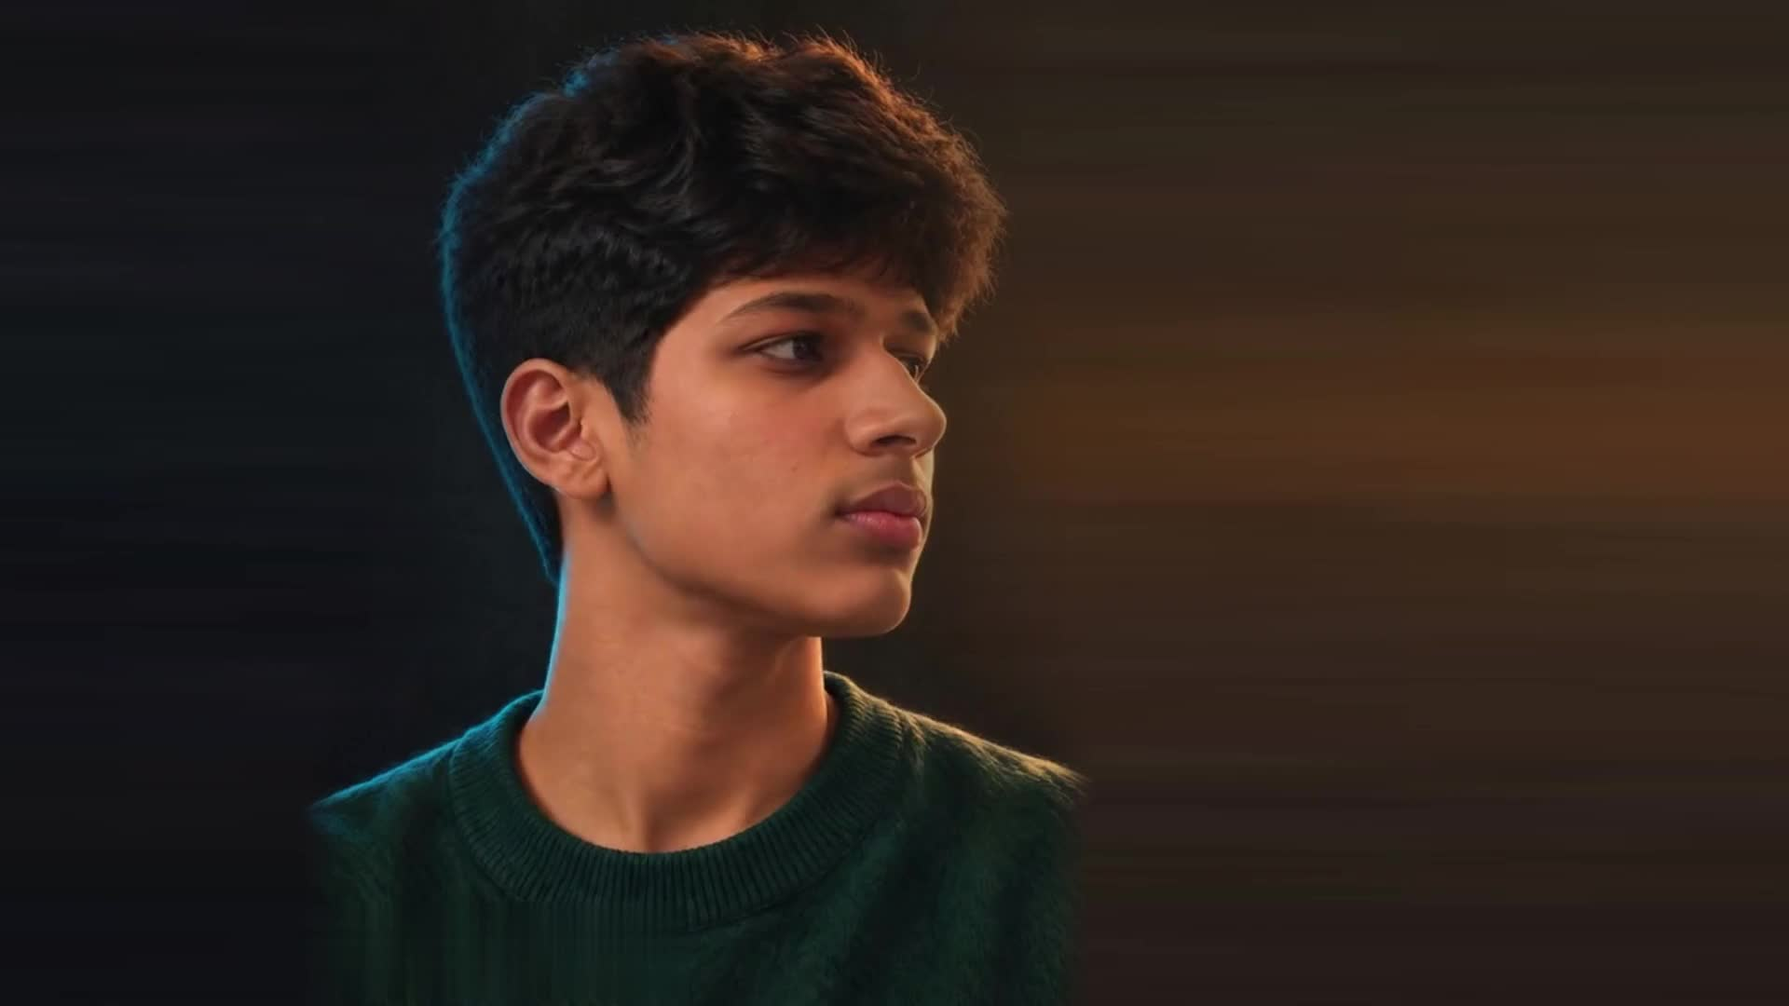
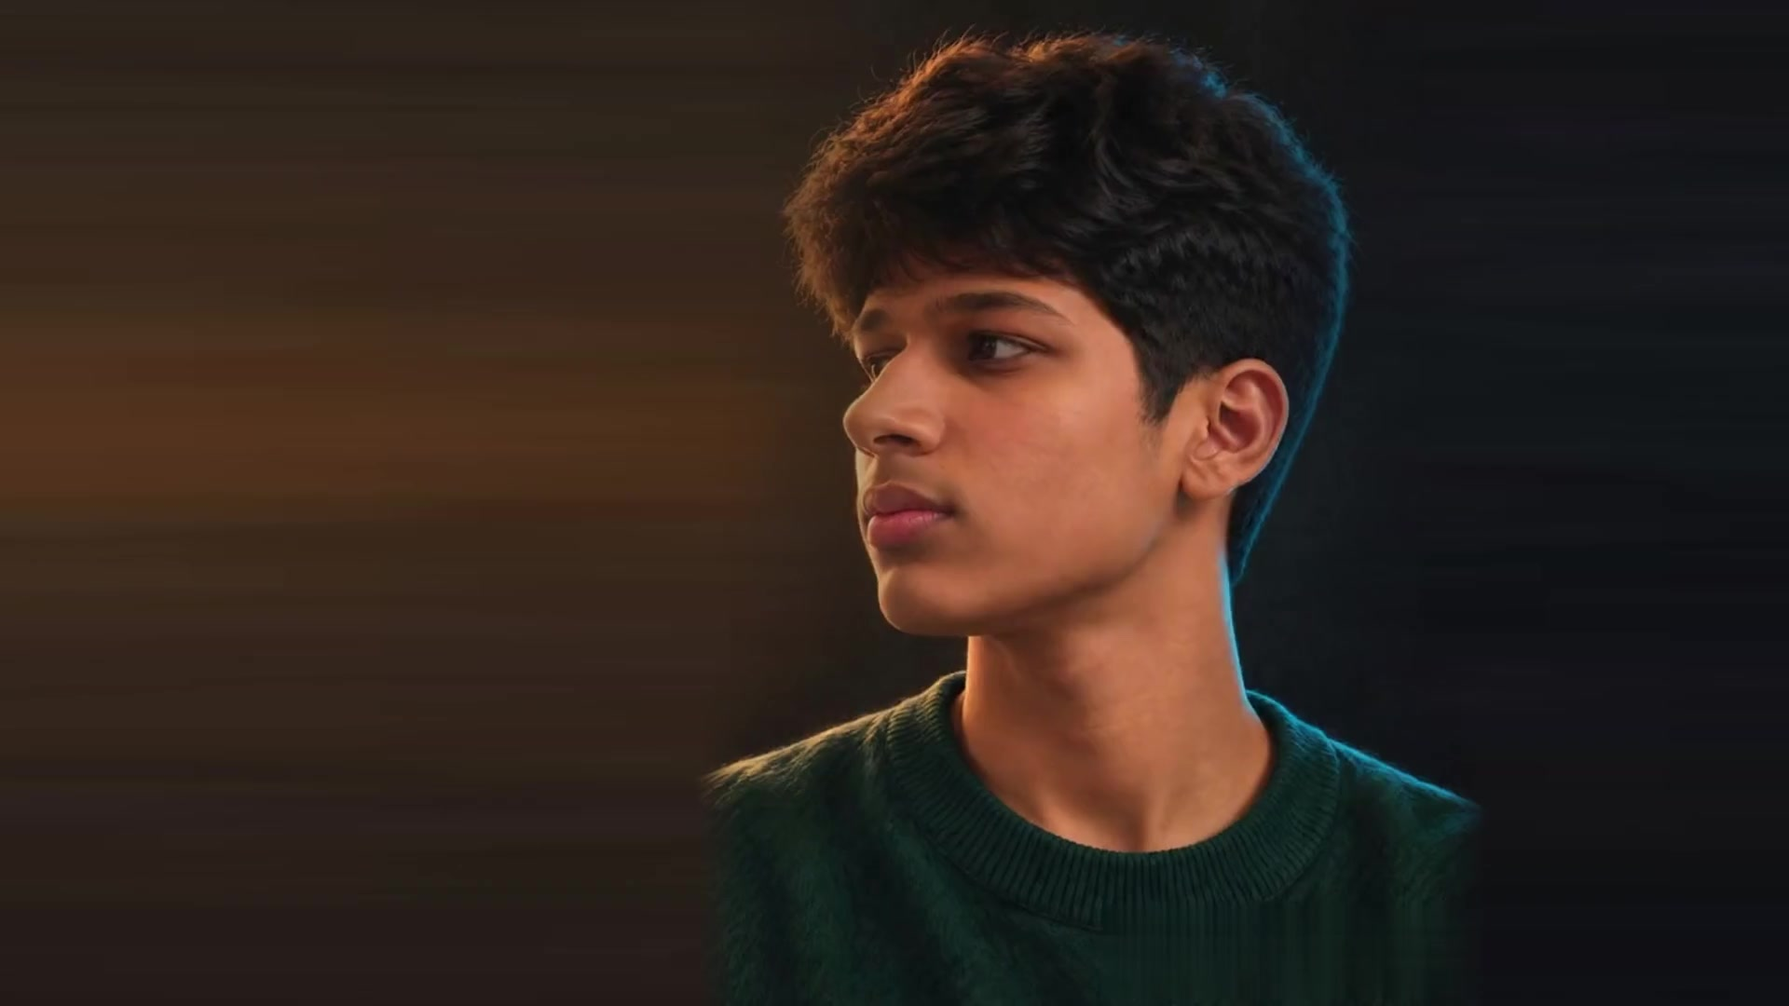
V22.2: unmirrored sharp hero (v21 footage, left-to-center sub-range only), navbar restored (toggle between Contact link and CTA, button back at far right), EQ bars animate down to flat when music stops

diff --git a/index.html b/index.html
@@ -18,7 +18,7 @@
   <link rel="preconnect" href="https://fonts.googleapis.com">
   <link rel="preconnect" href="https://fonts.gstatic.com" crossorigin>
   <link href="https://fonts.googleapis.com/css2?family=Archivo+Black&family=IBM+Plex+Mono:wght@400;500&family=Inter:wght@400;500&display=swap" rel="stylesheet">
-  <link rel="stylesheet" href="style.css?v=22.1">
+  <link rel="stylesheet" href="style.css?v=22.2">
 
   <!-- Tailwind Play CDN, pinned 3.4.16 (Prompt 27): compiles the utility
        classes in the browser at runtime, so this page needs internet for
@@ -111,12 +111,13 @@
         <li><a href="#contact" class="navbar__link font-mono text-[0.6875rem] font-medium tracking-[0.1em] uppercase text-muted py-[0.3em] px-[0.5em] transition-colors duration-150 ease-[cubic-bezier(0.16,1,0.3,1)] hover:text-ink focus-visible:text-ink focus-visible:outline-none">Contact</a></li>
       </ul>
       <div class="navbar__actions flex items-center gap-2">
-
-        <a href="index.html#contact" class="btn btn--outline navbar__cta hidden md:inline-flex">Contact</a>
         <button type="button" id="theme-toggle" class="theme-toggle" aria-label="Switch to light mode" aria-pressed="true">
           <svg class="theme-toggle__icon theme-toggle__sun" viewBox="0 0 24 24" fill="none" stroke="currentColor" stroke-width="1.5" stroke-linecap="round" aria-hidden="true"><circle cx="12" cy="12" r="4"/><path d="M12 2v2M12 20v2M4.93 4.93l1.41 1.41M17.66 17.66l1.41 1.41M2 12h2M20 12h2M4.93 19.07l1.41-1.41M17.66 6.34l1.41-1.41"/></svg>
           <svg class="theme-toggle__icon theme-toggle__moon" viewBox="0 0 24 24" fill="none" stroke="currentColor" stroke-width="1.5" stroke-linecap="round" stroke-linejoin="round" aria-hidden="true"><path d="M21 12.79A9 9 0 1 1 11.21 3 7 7 0 0 0 21 12.79z"/></svg>
         </button>
+
+
+        <a href="index.html#contact" class="btn btn--outline navbar__cta hidden md:inline-flex">Contact</a>
       </div>
     </nav>
   </header>
@@ -143,94 +144,94 @@
              --frame-count; the CSS slices the scroll range from those two. -->
         <div class="hero-bg">
           <picture class="portrait-frame portrait-frame--first" style="--i: 1">
-            <img src="assets/frames/frame01.jpg?v=22.1" alt="" aria-hidden="true" width="1920" height="1080" fetchpriority="high">
+            <img src="assets/frames/frame01.jpg?v=22.2" alt="" aria-hidden="true" width="1920" height="1080" fetchpriority="high">
           </picture>
           <picture class="portrait-frame" style="--i: 2">
-            <img src="assets/frames/frame02.jpg?v=22.1" alt="" aria-hidden="true" width="1920" height="1080" decoding="async">
+            <img src="assets/frames/frame02.jpg?v=22.2" alt="" aria-hidden="true" width="1920" height="1080" decoding="async">
           </picture>
           <picture class="portrait-frame" style="--i: 3">
-            <img src="assets/frames/frame03.jpg?v=22.1" alt="" aria-hidden="true" width="1920" height="1080" decoding="async">
+            <img src="assets/frames/frame03.jpg?v=22.2" alt="" aria-hidden="true" width="1920" height="1080" decoding="async">
           </picture>
           <picture class="portrait-frame" style="--i: 4">
-            <img src="assets/frames/frame04.jpg?v=22.1" alt="" aria-hidden="true" width="1920" height="1080" decoding="async">
+            <img src="assets/frames/frame04.jpg?v=22.2" alt="" aria-hidden="true" width="1920" height="1080" decoding="async">
           </picture>
           <picture class="portrait-frame" style="--i: 5">
-            <img src="assets/frames/frame05.jpg?v=22.1" alt="" aria-hidden="true" width="1920" height="1080" decoding="async">
+            <img src="assets/frames/frame05.jpg?v=22.2" alt="" aria-hidden="true" width="1920" height="1080" decoding="async">
           </picture>
           <picture class="portrait-frame" style="--i: 6">
-            <img src="assets/frames/frame06.jpg?v=22.1" alt="" aria-hidden="true" width="1920" height="1080" decoding="async">
+            <img src="assets/frames/frame06.jpg?v=22.2" alt="" aria-hidden="true" width="1920" height="1080" decoding="async">
           </picture>
           <picture class="portrait-frame" style="--i: 7">
-            <img src="assets/frames/frame07.jpg?v=22.1" alt="" aria-hidden="true" width="1920" height="1080" decoding="async">
+            <img src="assets/frames/frame07.jpg?v=22.2" alt="" aria-hidden="true" width="1920" height="1080" decoding="async">
           </picture>
           <picture class="portrait-frame" style="--i: 8">
-            <img src="assets/frames/frame08.jpg?v=22.1" alt="" aria-hidden="true" width="1920" height="1080" decoding="async">
+            <img src="assets/frames/frame08.jpg?v=22.2" alt="" aria-hidden="true" width="1920" height="1080" decoding="async">
           </picture>
           <picture class="portrait-frame" style="--i: 9">
-            <img src="assets/frames/frame09.jpg?v=22.1" alt="" aria-hidden="true" width="1920" height="1080" decoding="async">
+            <img src="assets/frames/frame09.jpg?v=22.2" alt="" aria-hidden="true" width="1920" height="1080" decoding="async">
           </picture>
           <picture class="portrait-frame" style="--i: 10">
-            <img src="assets/frames/frame10.jpg?v=22.1" alt="" aria-hidden="true" width="1920" height="1080" decoding="async">
+            <img src="assets/frames/frame10.jpg?v=22.2" alt="" aria-hidden="true" width="1920" height="1080" decoding="async">
           </picture>
           <picture class="portrait-frame" style="--i: 11">
-            <img src="assets/frames/frame11.jpg?v=22.1" alt="" aria-hidden="true" width="1920" height="1080" decoding="async">
+            <img src="assets/frames/frame11.jpg?v=22.2" alt="" aria-hidden="true" width="1920" height="1080" decoding="async">
           </picture>
           <picture class="portrait-frame" style="--i: 12">
-            <img src="assets/frames/frame12.jpg?v=22.1" alt="" aria-hidden="true" width="1920" height="1080" decoding="async">
+            <img src="assets/frames/frame12.jpg?v=22.2" alt="" aria-hidden="true" width="1920" height="1080" decoding="async">
           </picture>
           <picture class="portrait-frame" style="--i: 13">
-            <img src="assets/frames/frame13.jpg?v=22.1" alt="" aria-hidden="true" width="1920" height="1080" decoding="async">
+            <img src="assets/frames/frame13.jpg?v=22.2" alt="" aria-hidden="true" width="1920" height="1080" decoding="async">
           </picture>
           <picture class="portrait-frame" style="--i: 14">
-            <img src="assets/frames/frame14.jpg?v=22.1" alt="" aria-hidden="true" width="1920" height="1080" decoding="async">
+            <img src="assets/frames/frame14.jpg?v=22.2" alt="" aria-hidden="true" width="1920" height="1080" decoding="async">
           </picture>
           <picture class="portrait-frame" style="--i: 15">
-            <img src="assets/frames/frame15.jpg?v=22.1" alt="" aria-hidden="true" width="1920" height="1080" decoding="async">
+            <img src="assets/frames/frame15.jpg?v=22.2" alt="" aria-hidden="true" width="1920" height="1080" decoding="async">
           </picture>
           <picture class="portrait-frame" style="--i: 16">
-            <img src="assets/frames/frame16.jpg?v=22.1" alt="" aria-hidden="true" width="1920" height="1080" decoding="async">
+            <img src="assets/frames/frame16.jpg?v=22.2" alt="" aria-hidden="true" width="1920" height="1080" decoding="async">
           </picture>
           <picture class="portrait-frame" style="--i: 17">
-            <img src="assets/frames/frame17.jpg?v=22.1" alt="" aria-hidden="true" width="1920" height="1080" decoding="async">
+            <img src="assets/frames/frame17.jpg?v=22.2" alt="" aria-hidden="true" width="1920" height="1080" decoding="async">
           </picture>
           <picture class="portrait-frame" style="--i: 18">
-            <img src="assets/frames/frame18.jpg?v=22.1" alt="" aria-hidden="true" width="1920" height="1080" decoding="async">
+            <img src="assets/frames/frame18.jpg?v=22.2" alt="" aria-hidden="true" width="1920" height="1080" decoding="async">
           </picture>
           <picture class="portrait-frame" style="--i: 19">
-            <img src="assets/frames/frame19.jpg?v=22.1" alt="" aria-hidden="true" width="1920" height="1080" decoding="async">
+            <img src="assets/frames/frame19.jpg?v=22.2" alt="" aria-hidden="true" width="1920" height="1080" decoding="async">
           </picture>
           <picture class="portrait-frame" style="--i: 20">
-            <img src="assets/frames/frame20.jpg?v=22.1" alt="" aria-hidden="true" width="1920" height="1080" decoding="async">
+            <img src="assets/frames/frame20.jpg?v=22.2" alt="" aria-hidden="true" width="1920" height="1080" decoding="async">
           </picture>
           <picture class="portrait-frame" style="--i: 21">
-            <img src="assets/frames/frame21.jpg?v=22.1" alt="" aria-hidden="true" width="1920" height="1080" decoding="async">
+            <img src="assets/frames/frame21.jpg?v=22.2" alt="" aria-hidden="true" width="1920" height="1080" decoding="async">
           </picture>
           <picture class="portrait-frame" style="--i: 22">
-            <img src="assets/frames/frame22.jpg?v=22.1" alt="" aria-hidden="true" width="1920" height="1080" decoding="async">
+            <img src="assets/frames/frame22.jpg?v=22.2" alt="" aria-hidden="true" width="1920" height="1080" decoding="async">
           </picture>
           <picture class="portrait-frame" style="--i: 23">
-            <img src="assets/frames/frame23.jpg?v=22.1" alt="" aria-hidden="true" width="1920" height="1080" decoding="async">
+            <img src="assets/frames/frame23.jpg?v=22.2" alt="" aria-hidden="true" width="1920" height="1080" decoding="async">
           </picture>
           <picture class="portrait-frame" style="--i: 24">
-            <img src="assets/frames/frame24.jpg?v=22.1" alt="" aria-hidden="true" width="1920" height="1080" decoding="async">
+            <img src="assets/frames/frame24.jpg?v=22.2" alt="" aria-hidden="true" width="1920" height="1080" decoding="async">
           </picture>
           <picture class="portrait-frame" style="--i: 25">
-            <img src="assets/frames/frame25.jpg?v=22.1" alt="" aria-hidden="true" width="1920" height="1080" decoding="async">
+            <img src="assets/frames/frame25.jpg?v=22.2" alt="" aria-hidden="true" width="1920" height="1080" decoding="async">
           </picture>
           <picture class="portrait-frame" style="--i: 26">
-            <img src="assets/frames/frame26.jpg?v=22.1" alt="" aria-hidden="true" width="1920" height="1080" decoding="async">
+            <img src="assets/frames/frame26.jpg?v=22.2" alt="" aria-hidden="true" width="1920" height="1080" decoding="async">
           </picture>
           <picture class="portrait-frame" style="--i: 27">
-            <img src="assets/frames/frame27.jpg?v=22.1" alt="" aria-hidden="true" width="1920" height="1080" decoding="async">
+            <img src="assets/frames/frame27.jpg?v=22.2" alt="" aria-hidden="true" width="1920" height="1080" decoding="async">
           </picture>
           <picture class="portrait-frame" style="--i: 28">
-            <img src="assets/frames/frame28.jpg?v=22.1" alt="" aria-hidden="true" width="1920" height="1080" decoding="async">
+            <img src="assets/frames/frame28.jpg?v=22.2" alt="" aria-hidden="true" width="1920" height="1080" decoding="async">
           </picture>
           <picture class="portrait-frame" style="--i: 29">
-            <img src="assets/frames/frame29.jpg?v=22.1" alt="" aria-hidden="true" width="1920" height="1080" decoding="async">
+            <img src="assets/frames/frame29.jpg?v=22.2" alt="" aria-hidden="true" width="1920" height="1080" decoding="async">
           </picture>
           <picture class="portrait-frame portrait-frame--default" style="--i: 30">
-            <img src="assets/frames/frame30.jpg?v=22.1" alt="AI-generated portrait of Aditya Kulkarni" width="1920" height="1080" decoding="async">
+            <img src="assets/frames/frame30.jpg?v=22.2" alt="AI-generated portrait of Aditya Kulkarni" width="1920" height="1080" decoding="async">
           </picture>
         </div>
         <!-- FLAT readability overlay above the frames, below the text.
@@ -492,6 +493,6 @@
   <script defer src="https://cdn.jsdelivr.net/npm/lenis@1.1.14/dist/lenis.min.js"></script>
   <script defer src="https://cdn.jsdelivr.net/npm/gsap@3.12.5/dist/gsap.min.js"></script>
   <script defer src="https://cdn.jsdelivr.net/npm/gsap@3.12.5/dist/ScrollTrigger.min.js"></script>
-  <script src="script.js?v=22.1"></script>
+  <script src="script.js?v=22.2"></script>
 </body>
 </html>

diff --git a/projects.html b/projects.html
@@ -18,7 +18,7 @@
   <link rel="preconnect" href="https://fonts.googleapis.com">
   <link rel="preconnect" href="https://fonts.gstatic.com" crossorigin>
   <link href="https://fonts.googleapis.com/css2?family=Archivo+Black&family=IBM+Plex+Mono:wght@400;500&family=Inter:wght@400;500&display=swap" rel="stylesheet">
-  <link rel="stylesheet" href="style.css?v=22.1">
+  <link rel="stylesheet" href="style.css?v=22.2">
 
   <!-- Tailwind Play CDN, pinned 3.4.16 (Prompt 27): compiles the utility
        classes in the browser at runtime, so this page needs internet for
@@ -110,12 +110,13 @@
         <li><a href="#cp-pipeline" class="navbar__link font-mono text-[0.6875rem] font-medium tracking-[0.1em] uppercase text-muted py-[0.3em] px-[0.5em] transition-colors duration-150 ease-[cubic-bezier(0.16,1,0.3,1)] hover:text-ink focus-visible:text-ink focus-visible:outline-none">05 CP Pipeline</a></li>
       </ul>
       <div class="navbar__actions flex items-center gap-2">
-
-        <a href="index.html#contact" class="btn btn--outline navbar__cta hidden md:inline-flex">Contact</a>
         <button type="button" id="theme-toggle" class="theme-toggle" aria-label="Switch to light mode" aria-pressed="true">
           <svg class="theme-toggle__icon theme-toggle__sun" viewBox="0 0 24 24" fill="none" stroke="currentColor" stroke-width="1.5" stroke-linecap="round" aria-hidden="true"><circle cx="12" cy="12" r="4"/><path d="M12 2v2M12 20v2M4.93 4.93l1.41 1.41M17.66 17.66l1.41 1.41M2 12h2M20 12h2M4.93 19.07l1.41-1.41M17.66 6.34l1.41-1.41"/></svg>
           <svg class="theme-toggle__icon theme-toggle__moon" viewBox="0 0 24 24" fill="none" stroke="currentColor" stroke-width="1.5" stroke-linecap="round" stroke-linejoin="round" aria-hidden="true"><path d="M21 12.79A9 9 0 1 1 11.21 3 7 7 0 0 0 21 12.79z"/></svg>
         </button>
+
+
+        <a href="index.html#contact" class="btn btn--outline navbar__cta hidden md:inline-flex">Contact</a>
       </div>
     </nav>
   </header>
@@ -357,6 +358,6 @@
   <script defer src="https://cdn.jsdelivr.net/npm/lenis@1.1.14/dist/lenis.min.js"></script>
   <script defer src="https://cdn.jsdelivr.net/npm/gsap@3.12.5/dist/gsap.min.js"></script>
   <script defer src="https://cdn.jsdelivr.net/npm/gsap@3.12.5/dist/ScrollTrigger.min.js"></script>
-  <script src="script.js?v=22.1"></script>
+  <script src="script.js?v=22.2"></script>
 </body>
 </html>

diff --git a/academics.html b/academics.html
@@ -18,7 +18,7 @@
   <link rel="preconnect" href="https://fonts.googleapis.com">
   <link rel="preconnect" href="https://fonts.gstatic.com" crossorigin>
   <link href="https://fonts.googleapis.com/css2?family=Archivo+Black&family=IBM+Plex+Mono:wght@400;500&family=Inter:wght@400;500&display=swap" rel="stylesheet">
-  <link rel="stylesheet" href="style.css?v=22.1">
+  <link rel="stylesheet" href="style.css?v=22.2">
 
   <!-- Tailwind Play CDN, pinned 3.4.16 (Prompt 27): compiles the utility
        classes in the browser at runtime, so this page needs internet for
@@ -110,12 +110,13 @@
         <li><a href="#learning" class="navbar__link font-mono text-[0.6875rem] font-medium tracking-[0.1em] uppercase text-muted py-[0.3em] px-[0.5em] transition-colors duration-150 ease-[cubic-bezier(0.16,1,0.3,1)] hover:text-ink focus-visible:text-ink focus-visible:outline-none">Learning</a></li>
       </ul>
       <div class="navbar__actions flex items-center gap-2">
-
-        <a href="index.html#contact" class="btn btn--outline navbar__cta hidden md:inline-flex">Contact</a>
         <button type="button" id="theme-toggle" class="theme-toggle" aria-label="Switch to light mode" aria-pressed="true">
           <svg class="theme-toggle__icon theme-toggle__sun" viewBox="0 0 24 24" fill="none" stroke="currentColor" stroke-width="1.5" stroke-linecap="round" aria-hidden="true"><circle cx="12" cy="12" r="4"/><path d="M12 2v2M12 20v2M4.93 4.93l1.41 1.41M17.66 17.66l1.41 1.41M2 12h2M20 12h2M4.93 19.07l1.41-1.41M17.66 6.34l1.41-1.41"/></svg>
           <svg class="theme-toggle__icon theme-toggle__moon" viewBox="0 0 24 24" fill="none" stroke="currentColor" stroke-width="1.5" stroke-linecap="round" stroke-linejoin="round" aria-hidden="true"><path d="M21 12.79A9 9 0 1 1 11.21 3 7 7 0 0 0 21 12.79z"/></svg>
         </button>
+
+
+        <a href="index.html#contact" class="btn btn--outline navbar__cta hidden md:inline-flex">Contact</a>
       </div>
     </nav>
   </header>
@@ -346,6 +347,6 @@
   <script defer src="https://cdn.jsdelivr.net/npm/lenis@1.1.14/dist/lenis.min.js"></script>
   <script defer src="https://cdn.jsdelivr.net/npm/gsap@3.12.5/dist/gsap.min.js"></script>
   <script defer src="https://cdn.jsdelivr.net/npm/gsap@3.12.5/dist/ScrollTrigger.min.js"></script>
-  <script src="script.js?v=22.1"></script>
+  <script src="script.js?v=22.2"></script>
 </body>
 </html>

diff --git a/community.html b/community.html
@@ -18,7 +18,7 @@
   <link rel="preconnect" href="https://fonts.googleapis.com">
   <link rel="preconnect" href="https://fonts.gstatic.com" crossorigin>
   <link href="https://fonts.googleapis.com/css2?family=Archivo+Black&family=IBM+Plex+Mono:wght@400;500&family=Inter:wght@400;500&display=swap" rel="stylesheet">
-  <link rel="stylesheet" href="style.css?v=22.1">
+  <link rel="stylesheet" href="style.css?v=22.2">
 
   <!-- Tailwind Play CDN, pinned 3.4.16 (Prompt 27): compiles the utility
        classes in the browser at runtime, so this page needs internet for
@@ -110,12 +110,13 @@
         <li><a href="#connect" class="navbar__link font-mono text-[0.6875rem] font-medium tracking-[0.1em] uppercase text-muted py-[0.3em] px-[0.5em] transition-colors duration-150 ease-[cubic-bezier(0.16,1,0.3,1)] hover:text-ink focus-visible:text-ink focus-visible:outline-none">Connect</a></li>
       </ul>
       <div class="navbar__actions flex items-center gap-2">
-
-        <a href="index.html#contact" class="btn btn--outline navbar__cta hidden md:inline-flex">Contact</a>
         <button type="button" id="theme-toggle" class="theme-toggle" aria-label="Switch to light mode" aria-pressed="true">
           <svg class="theme-toggle__icon theme-toggle__sun" viewBox="0 0 24 24" fill="none" stroke="currentColor" stroke-width="1.5" stroke-linecap="round" aria-hidden="true"><circle cx="12" cy="12" r="4"/><path d="M12 2v2M12 20v2M4.93 4.93l1.41 1.41M17.66 17.66l1.41 1.41M2 12h2M20 12h2M4.93 19.07l1.41-1.41M17.66 6.34l1.41-1.41"/></svg>
           <svg class="theme-toggle__icon theme-toggle__moon" viewBox="0 0 24 24" fill="none" stroke="currentColor" stroke-width="1.5" stroke-linecap="round" stroke-linejoin="round" aria-hidden="true"><path d="M21 12.79A9 9 0 1 1 11.21 3 7 7 0 0 0 21 12.79z"/></svg>
         </button>
+
+
+        <a href="index.html#contact" class="btn btn--outline navbar__cta hidden md:inline-flex">Contact</a>
       </div>
     </nav>
   </header>
@@ -340,6 +341,6 @@
   <script defer src="https://cdn.jsdelivr.net/npm/lenis@1.1.14/dist/lenis.min.js"></script>
   <script defer src="https://cdn.jsdelivr.net/npm/gsap@3.12.5/dist/gsap.min.js"></script>
   <script defer src="https://cdn.jsdelivr.net/npm/gsap@3.12.5/dist/ScrollTrigger.min.js"></script>
-  <script src="script.js?v=22.1"></script>
+  <script src="script.js?v=22.2"></script>
 </body>
 </html>

diff --git a/beyond.html b/beyond.html
@@ -18,7 +18,7 @@
   <link rel="preconnect" href="https://fonts.googleapis.com">
   <link rel="preconnect" href="https://fonts.gstatic.com" crossorigin>
   <link href="https://fonts.googleapis.com/css2?family=Archivo+Black&family=IBM+Plex+Mono:wght@400;500&family=Inter:wght@400;500&display=swap" rel="stylesheet">
-  <link rel="stylesheet" href="style.css?v=22.1">
+  <link rel="stylesheet" href="style.css?v=22.2">
 
   <!-- Tailwind Play CDN, pinned 3.4.16 (Prompt 27): compiles the utility
        classes in the browser at runtime, so this page needs internet for
@@ -110,12 +110,13 @@
         <li><a href="#music" class="navbar__link font-mono text-[0.6875rem] font-medium tracking-[0.1em] uppercase text-muted py-[0.3em] px-[0.5em] transition-colors duration-150 ease-[cubic-bezier(0.16,1,0.3,1)] hover:text-ink focus-visible:text-ink focus-visible:outline-none">Music</a></li>
       </ul>
       <div class="navbar__actions flex items-center gap-2">
-
-        <a href="index.html#contact" class="btn btn--outline navbar__cta hidden md:inline-flex">Contact</a>
         <button type="button" id="theme-toggle" class="theme-toggle" aria-label="Switch to light mode" aria-pressed="true">
           <svg class="theme-toggle__icon theme-toggle__sun" viewBox="0 0 24 24" fill="none" stroke="currentColor" stroke-width="1.5" stroke-linecap="round" aria-hidden="true"><circle cx="12" cy="12" r="4"/><path d="M12 2v2M12 20v2M4.93 4.93l1.41 1.41M17.66 17.66l1.41 1.41M2 12h2M20 12h2M4.93 19.07l1.41-1.41M17.66 6.34l1.41-1.41"/></svg>
           <svg class="theme-toggle__icon theme-toggle__moon" viewBox="0 0 24 24" fill="none" stroke="currentColor" stroke-width="1.5" stroke-linecap="round" stroke-linejoin="round" aria-hidden="true"><path d="M21 12.79A9 9 0 1 1 11.21 3 7 7 0 0 0 21 12.79z"/></svg>
         </button>
+
+
+        <a href="index.html#contact" class="btn btn--outline navbar__cta hidden md:inline-flex">Contact</a>
       </div>
     </nav>
   </header>
@@ -376,6 +377,6 @@
   <script defer src="https://cdn.jsdelivr.net/npm/lenis@1.1.14/dist/lenis.min.js"></script>
   <script defer src="https://cdn.jsdelivr.net/npm/gsap@3.12.5/dist/gsap.min.js"></script>
   <script defer src="https://cdn.jsdelivr.net/npm/gsap@3.12.5/dist/ScrollTrigger.min.js"></script>
-  <script src="script.js?v=22.1"></script>
+  <script src="script.js?v=22.2"></script>
 </body>
 </html>

diff --git a/style.css b/style.css
@@ -1280,9 +1280,14 @@ body:has(.menu-checkbox:checked) .nav-overlay__item:nth-child(6) .nav-overlay__l
   50%      { transform: scaleY(1); }
 }
 
-/* Frozen equalizer = muted (or entered without sound) */
+/* Muted (or entered without sound): bars animate DOWN to flat,
+   so the stopped state reads as stopped, not frozen mid-dance.
+   Removing the animation lets the transition carry each bar from
+   its current height to flat. */
 .music-toggle--muted span {
-  animation-play-state: paused;
+  animation: none;
+  transform: scaleY(0.08);
+  transition: transform 0.45s cubic-bezier(0.16, 1, 0.3, 1), opacity 0.3s ease;
   opacity: 0.4;
 }
 
